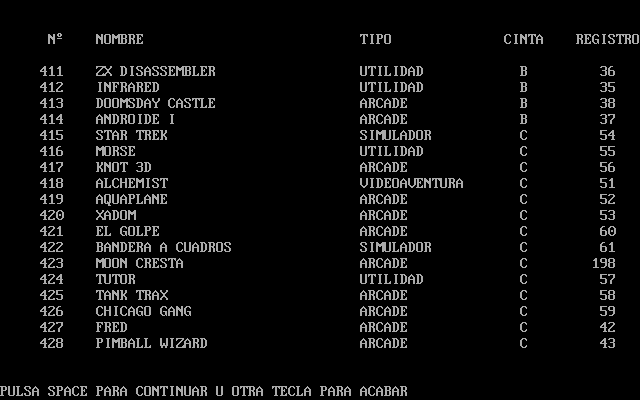
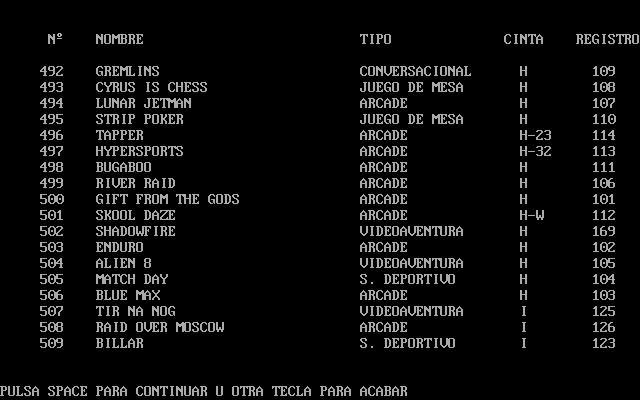
La web ya llama a las funciones y muestra correctamente la info

diff --git a/practica3/src/main/resources/static/index.html b/practica3/src/main/resources/static/index.html
@@ -3,12 +3,22 @@
 <head>
     <title>Practica 3 - Grupo 7 - MSDOS</title>
     <meta content="width=device-width, initial-scale=1.0" name="viewport">
-    <link href="webjars/bootstrap/3.3.5/css/bootstrap.min.css" rel="stylesheet"
-          type="text/css"/>
-    <script src="webjars/jquery/2.1.4/jquery.min.js" type="text/javascript"></script>
-    <script src="webjars/bootstrap/3.3.5/js/bootstrap.min.js"
-            type="text/javascript"></script>
-    <script src="js/app.js" type="text/javascript">
+    </script>
+    <script>  
+        function redirectGameInfo(name) { 
+            console.log("Este la url")
+            url="http://localhost:8080/program/listData/"+name
+            console.log(url)
+            window.location.href = url
+        }
+    </script>
+    <script>  
+        function redirectGameList(location) { 
+            console.log("Este la url")
+            url="http://localhost:8080/program/listGamesInLocation/"+location
+            console.log(url)
+            window.location.href = url
+        }
     </script>
 
 </head>
@@ -20,16 +30,35 @@
             <h1>Practica 3 - Grupo 7</h1>
             <p class="lead">A front-end example page for the project</p>
             <br>
-
-
         </div>
     </div>
     <div class="row">
-        <div class="col-lg-12 text-center">
-            <div class="col-sm-offset-4 col-sm-4 text-center">
-                <br/>
-                <div id="result"/>
-            </div>
+        <div class="col-lg-4 text-center">
+            <h3>Obtener registros del sistema</h3>
+            <form>
+                <a href="http://localhost:8080/program/viewInfo"><p>Obtener registros</p></a>
+            </form>
+            <br>
+        </div>
+        
+        <div class="col-lg-4 text-center">
+            <h3>Obtener informacion de un juego</h3>
+            <form>
+                <div>
+                    <textarea id="name">Nombre</textarea>
+                    <button type="reset" onClick="redirectGameInfo(getElementById('name').value)">Obtener Informacion</button>
+                </div>
+            </form>
+            <br>
+        </div>
+
+        <div class="col-lg-4 text-center">
+            <h3>Obtener juegos en una cinta</h3>
+            <form>
+                <textarea id="location">Cinta</textarea>
+                <button type="reset" onClick="redirectGameList(getElementById('location').value)">Obtener Informacion</button>
+            </form>
+            <br>
         </div>
     </div>
 </div>

diff --git a/practica3/src/main/java/practica3/service/Program.java b/practica3/src/main/java/practica3/service/Program.java
@@ -127,153 +127,175 @@ public class Program {
 
         String lines[] = screen.split("\n");
         String words [] = lines[1].split(" ");
-        String result = "Contiene " + words[1] + "archivos.";
+        String result = "Contiene " + words[1] + " archivos.";
         return result;
     }
 
     public Game listData (String name) throws IOException, InterruptedException, TesseractException {
-        startDatabase();
-        Thread.sleep(5000);
-        pressKey(KeyEvent.VK_7);
-        releaseKey(KeyEvent.VK_7);
-        pressKey(KeyEvent.VK_SHIFT);
-        pressKey(KeyEvent.VK_N);
-        releaseKey(KeyEvent.VK_N);
-        releaseKey(KeyEvent.VK_SHIFT);
-        pressKey(KeyEvent.VK_ENTER);
-        releaseKey(KeyEvent.VK_ENTER);
-        for (int i=0;i<name.length();i++){
-            char c = name.charAt(i);
-            robot.keyPress(KeyEvent.VK_SHIFT);
-            robot.keyPress(Character.toUpperCase(c));
-            robot.keyRelease(Character.toUpperCase(c));
-            robot.keyRelease(KeyEvent.VK_SHIFT);
-            Thread.sleep(50);
-        }
-        pressKey(KeyEvent.VK_ENTER);
-        releaseKey(KeyEvent.VK_ENTER);
-        String screen = captureScreen();
-        System.out.println(screen);
-        String gameWords [] = name.split(" ");
-        String pieces [] = screen.split("\n");
-        String gameData[] = pieces[0].split(" ");
-        String gameId=gameData[0];
-        String gameName = "";
-        int j = 2;
-        while(j-2<gameWords.length){
-            gameName = gameName + gameData[j] + " ";
+        try{
+            startDatabase();
+            Thread.sleep(5000);
+            pressKey(KeyEvent.VK_7);
+            releaseKey(KeyEvent.VK_7);
+            pressKey(KeyEvent.VK_SHIFT);
+            pressKey(KeyEvent.VK_N);
+            releaseKey(KeyEvent.VK_N);
+            releaseKey(KeyEvent.VK_SHIFT);
+            pressKey(KeyEvent.VK_ENTER);
+            releaseKey(KeyEvent.VK_ENTER);
+            for (int i=0;i<name.length();i++){
+                char c = name.charAt(i);
+                robot.keyPress(KeyEvent.VK_SHIFT);
+                robot.keyPress(Character.toUpperCase(c));
+                robot.keyRelease(Character.toUpperCase(c));
+                robot.keyRelease(KeyEvent.VK_SHIFT);
+                Thread.sleep(50);
+            }
+            pressKey(KeyEvent.VK_ENTER);
+            releaseKey(KeyEvent.VK_ENTER);
+            String screen = captureScreen();
+            System.out.println(screen);
+            String gameWords [] = name.split(" ");
+            String pieces [] = screen.split("\n");
+            String gameData[] = pieces[0].split(" ");
+            String gameId=gameData[0];
+            String gameName = "";
+            int j = 2;
+            while(j-2<gameWords.length){
+                gameName = gameName + gameData[j] + " ";
+                j++;
+            }
+            String gameLocation = gameData[gameData.length-1];
+            String gameType = gameData[j];
             j++;
+            while(gameData[j]!=gameLocation){
+                gameType=gameType+" "+gameData[j];
+                j++;
+            }
+            gameLocation=gameLocation.replaceFirst("E",":");
+            System.out.println(gameId);
+            System.out.println(gameName);
+            System.out.println(gameType);
+            System.out.println(gameLocation);
+            Game g = new Game(gameId,name,gameType,gameLocation);
+            pressKey(KeyEvent.VK_CONTROL);
+            pressKey(KeyEvent.VK_F9);
+            releaseKey(KeyEvent.VK_CONTROL);
+            releaseKey(KeyEvent.VK_F9);
+            return g;
         }
-        String gameLocation = gameData[gameData.length-1];
-        String gameType = gameData[j];
-        j++;
-        while(gameData[j]!=gameLocation){
-            gameType=gameType+" "+gameData[j];
-            j++;
+        catch(Exception e){
+            pressKey(KeyEvent.VK_CONTROL);
+            pressKey(KeyEvent.VK_F9);
+            releaseKey(KeyEvent.VK_CONTROL);
+            releaseKey(KeyEvent.VK_F9);
+            return null;
         }
-        gameLocation=gameLocation.replaceFirst("E",":");
-        System.out.println(gameId);
-        System.out.println(gameName);
-        System.out.println(gameType);
-        System.out.println(gameLocation);
-        Game g = new Game(gameId,gameName,gameType,gameLocation);
-        pressKey(KeyEvent.VK_CONTROL);
-        pressKey(KeyEvent.VK_F9);
-        releaseKey(KeyEvent.VK_CONTROL);
-        releaseKey(KeyEvent.VK_F9);
-        return g;
     }
 
 
     public List<Game> listGamesInLocation(String location) throws IOException, InterruptedException, TesseractException {
-        startDatabase();
-        Thread.sleep(5000);
-        pressKey(KeyEvent.VK_3);
-        releaseKey(KeyEvent.VK_3);
-        pressKey(KeyEvent.VK_3);
-        releaseKey(KeyEvent.VK_3);
-        pressKey(KeyEvent.VK_ENTER);
-        releaseKey(KeyEvent.VK_ENTER);
-        //Duerme el proceso 30 segundos para dar tiempo al programa a ordenar la base de datos
-        Thread.sleep(30000);
-        pressKey(KeyEvent.VK_ENTER);
-        releaseKey(KeyEvent.VK_ENTER);
-        pressKey(KeyEvent.VK_6);
-        releaseKey(KeyEvent.VK_6);
-        //Escribir la cinta deseada
-        for (int i=0;i<location.length();i++){
-            char c = location.charAt(i);
-            robot.keyPress(KeyEvent.VK_SHIFT);
-            robot.keyPress(Character.toUpperCase(c));
-            robot.keyRelease(Character.toUpperCase(c));
-            robot.keyRelease(KeyEvent.VK_SHIFT);
-            Thread.sleep(50);
+        try{
+            startDatabase();
+            Thread.sleep(5000);
+            pressKey(KeyEvent.VK_3);
+            releaseKey(KeyEvent.VK_3);
+            pressKey(KeyEvent.VK_3);
+            releaseKey(KeyEvent.VK_3);
+            pressKey(KeyEvent.VK_ENTER);
+            releaseKey(KeyEvent.VK_ENTER);
+            //Duerme el proceso 30 segundos para dar tiempo al programa a ordenar la base de datos
+            Thread.sleep(30000);
+            pressKey(KeyEvent.VK_ENTER);
+            releaseKey(KeyEvent.VK_ENTER);
+            pressKey(KeyEvent.VK_6);
+            releaseKey(KeyEvent.VK_6);
+            //Escribir la cinta deseada
+            for (int i=0;i<location.length();i++){
+                char c = location.charAt(i);
+                robot.keyPress(KeyEvent.VK_SHIFT);
+                robot.keyPress(Character.toUpperCase(c));
+                robot.keyRelease(Character.toUpperCase(c));
+                robot.keyRelease(KeyEvent.VK_SHIFT);
+                Thread.sleep(50);
+            }
+            pressKey(KeyEvent.VK_ENTER);
+            releaseKey(KeyEvent.VK_ENTER);
+            //Dormir 5 segundos para dar tiempo a buscar
+            Thread.sleep(5000);
+            String screen = captureScreen();
+            List<Game> games = new ArrayList<>();
+            //Game games [];                  //Inicializar los juegos a "vacío"?
+            Game nullGame = new Game();
+            games.add(nullGame);
+            String lines[] = screen.split("\n");
+            int i=0;
+            int j=0;                    //Para permitir comparar con el anterior y contar cuantos juegos han sido añadidos.
+            do{
+                if(i==0){
+                    System.out.println("Estoy en i=0");
+                    lines = screen.split("\n");
+                }
+                if(i==18 || lines[i].contains("space")){
+                    System.out.println("Estoy en i=19 o mi linea contiene la palabra space");
+                    pressKey(KeyEvent.VK_SPACE);
+                    releaseKey(KeyEvent.VK_SPACE);
+                    Thread.sleep(200);
+                    screen = captureScreen();
+                    i=0;
+                }
+                else{
+                    j++;
+                    i++;
+                    System.out.println(lines[i]);
+                    String pieces[] = lines[i].split(" ");
+                    String register = pieces[pieces.length-1];
+                    String id = pieces[0];
+                    String tape = pieces[pieces.length-2];
+                    String type = pieces[pieces.length-3];
+                    int k=4;
+                    if (type.contains("DEPORTIVO")){
+                        type = pieces[pieces.length-4] + " " + type;
+                        k=k+1;
+                    }
+                    if(type.contains("MESA")){
+                        type = pieces[pieces.length-5] + " " + pieces[pieces.length-4] + " " + type;
+                        k=k+2;
+                    }
+                    String name = pieces[pieces.length-k];
+                    while(pieces.length-k>1){
+                        k++;
+                        name = pieces[pieces.length-k] + " " + name;
+                    }
+                    System.out.println(id);
+                    System.out.println(name);
+                    System.out.println(type);
+                    System.out.println(tape);
+                    System.out.println(register);
+                    System.out.println("--------------------");
+                    Game g = new Game(id,name,type,tape,register);
+                    games.add(g);
+                }
+            }while(games.get(j).getLocation().contains(location) || (games.get(j).getLocation()==games.get(j-1).getLocation() || games.get(j-1).getLocation()==null || games.get(j).getLocation().contains(games.get(j-1).getLocation()) || games.get(j-1).getLocation().contains(games.get(j).getLocation())));
+            games.remove(j);
+            System.out.println("VOY A ORDENAR LOS JUEGOS");
+            sortGames(games);
+            for(int w=1;w<games.size();w++){
+                System.out.println(games.get(w).getRegister());
+            }
+            pressKey(KeyEvent.VK_CONTROL);
+            pressKey(KeyEvent.VK_F9);
+            releaseKey(KeyEvent.VK_CONTROL);
+            releaseKey(KeyEvent.VK_F9);
+            return games;
         }
-        pressKey(KeyEvent.VK_ENTER);
-        releaseKey(KeyEvent.VK_ENTER);
-        //Dormir 5 segundos para dar tiempo a buscar
-        Thread.sleep(5000);
-        String screen = captureScreen();
-        List<Game> games = new ArrayList<>();
-        //Game games [];                  //Inicializar los juegos a "vacío"?
-        Game nullGame = new Game();
-        games.add(nullGame);
-        String lines[] = screen.split("\n");
-        int i=0;
-        int j=0;                    //Para permitir comparar con el anterior y contar cuantos juegos han sido añadidos.
-        do{
-            if(i==0){
-                System.out.println("Estoy en i=0");
-                lines = screen.split("\n");
-            }
-            if(i==18 || lines[i].contains("space")){
-                System.out.println("Estoy en i=19 o mi linea contiene la palabra space");
-                pressKey(KeyEvent.VK_SPACE);
-                releaseKey(KeyEvent.VK_SPACE);
-                Thread.sleep(200);
-                screen = captureScreen();
-                i=0;
-            }
-            else{
-                j++;
-                i++;
-                System.out.println(lines[i]);
-                String pieces[] = lines[i].split(" ");
-                String register = pieces[pieces.length-1];
-                String id = pieces[0];
-                String tape = pieces[pieces.length-2];
-                String type = pieces[pieces.length-3];
-                int k=4;
-                if (type.contains("DEPORTIVO")){
-                    type = pieces[pieces.length-4] + " " + type;
-                    k=k+1;
-                }
-                if(type.contains("MESA")){
-                    type = pieces[pieces.length-5] + " " + pieces[pieces.length-4] + " " + type;
-                    k=k+2;
-                }
-                String name = pieces[pieces.length-k];
-                while(pieces.length-k>1){
-                    k++;
-                    name = pieces[pieces.length-k] + " " + name;
-                }
-                System.out.println(id);
-                System.out.println(name);
-                System.out.println(type);
-                System.out.println(tape);
-                System.out.println(register);
-                System.out.println("--------------------");
-                Game g = new Game(id,name,type,tape,register);
-                games.add(g);
-            }
-        }while(games.get(j).getLocation().contains(location) || (games.get(j).getLocation()==games.get(j-1).getLocation() || games.get(j-1).getLocation()==null || games.get(j).getLocation().contains(games.get(j-1).getLocation()) || games.get(j-1).getLocation().contains(games.get(j).getLocation())));
-        games.remove(j);
-        System.out.println("VOY A ORDENAR LOS JUEGOS");
-        sortGames(games);
-        for(int w=1;w<games.size();w++){
-            System.out.println(games.get(w).getRegister());
+        catch(Exception e){
+            pressKey(KeyEvent.VK_CONTROL);
+            pressKey(KeyEvent.VK_F9);
+            releaseKey(KeyEvent.VK_CONTROL);
+            releaseKey(KeyEvent.VK_F9);
+            return null;
         }
-        return games;
     }
 
 

diff --git a/practica3/src/main/java/practica3/controller/ProgramController.java b/practica3/src/main/java/practica3/controller/ProgramController.java
@@ -33,7 +33,7 @@ public class ProgramController {
     @GetMapping("/program/listData/{name}")
     public ResponseEntity<Game> getGame(@PathVariable("name") String name) throws InterruptedException, IOException, TesseractException {
 
-            Game g = program.listData("Reversi");
+            Game g = program.listData(name);
             return new ResponseEntity<>(g, HttpStatus.OK);
     }
 
